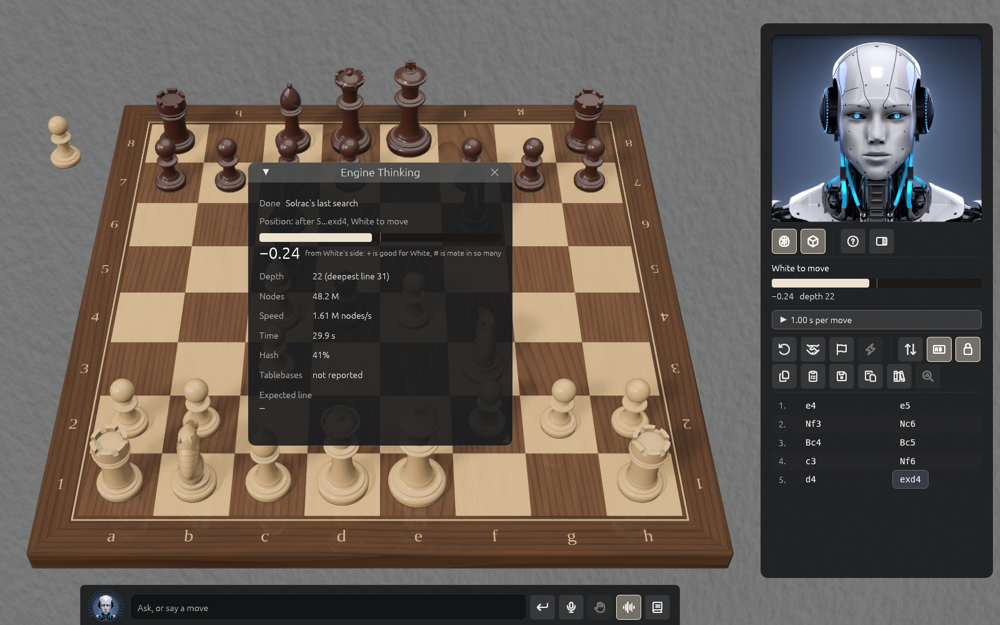
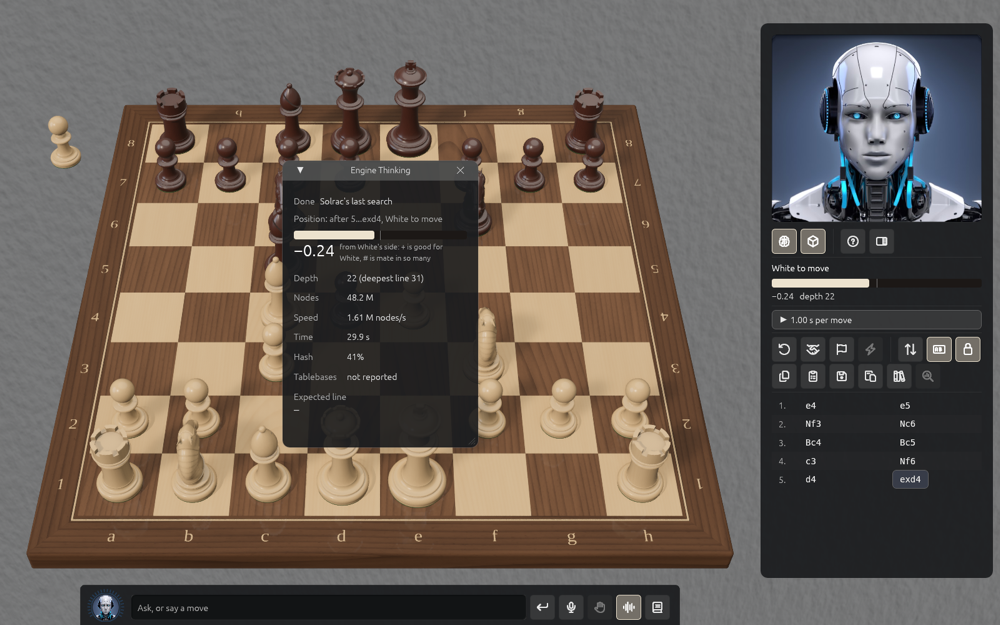
Settings: Strength against you is a list of levels; smaller window titles in the pictures (chessgui #777)

Changed region(s): [[0.248, 0.2432, 0.527, 0.7296]]

diff --git a/book/src/preferences.md b/book/src/preferences.md
@@ -29,11 +29,13 @@ shrinks the window to fit, keeping its shape, and remembers that size instead.
 
 ![Settings, the Game page](images/preferences-game.png)
 
-The heading is **Solrac**. You choose a game's time control and Solrac's strength in the New Game
-sheet, and can change the strength during the game in the panel (see
-[Playing a game](playing.md)). Here are the settings
-that stay the same from game to game:
+The heading is **Solrac**. You choose a game's time control in the New Game sheet (see
+[Playing a game](playing.md)). Here are the settings that stay the same from game to game:
 
+- **Strength against you**: a list of Solrac's levels, each with the rating it plays at, then
+  full strength. It is the same setting as the New Game sheet's strength and the panel's
+  strength row, so a change in any one of them shows in the others. A rating chosen in the
+  panel shows here as that rating until you pick a level.
 - **Think time per move**: from 0.1 to 10 seconds, 1 second to start. It is for games without a
   clock; when a clock is running, the clock decides how long Solrac thinks, and the slider is
   greyed out with a note that says so.

diff --git a/book/src/playing.md b/book/src/playing.md
@@ -80,7 +80,8 @@ draw.
 ## Strength
 
 You set Solrac's strength in the New Game sheet, and you can change it during a game: under the
-clock, the panel has a **Strength** row for the side Solrac plays. Both set the same thing.
+clock, the panel has a **Strength** row for the side Solrac plays. Both set the same thing,
+and so does **Strength against you** in Settings → Game.
 
 The panel's row starts closed, as one line that says how Solrac plays and thinks, such as
 "Solrac · ≈ 1800 Lichess rapid · 1.00 s" ("by the clock" in a game with a clock). Click it to
